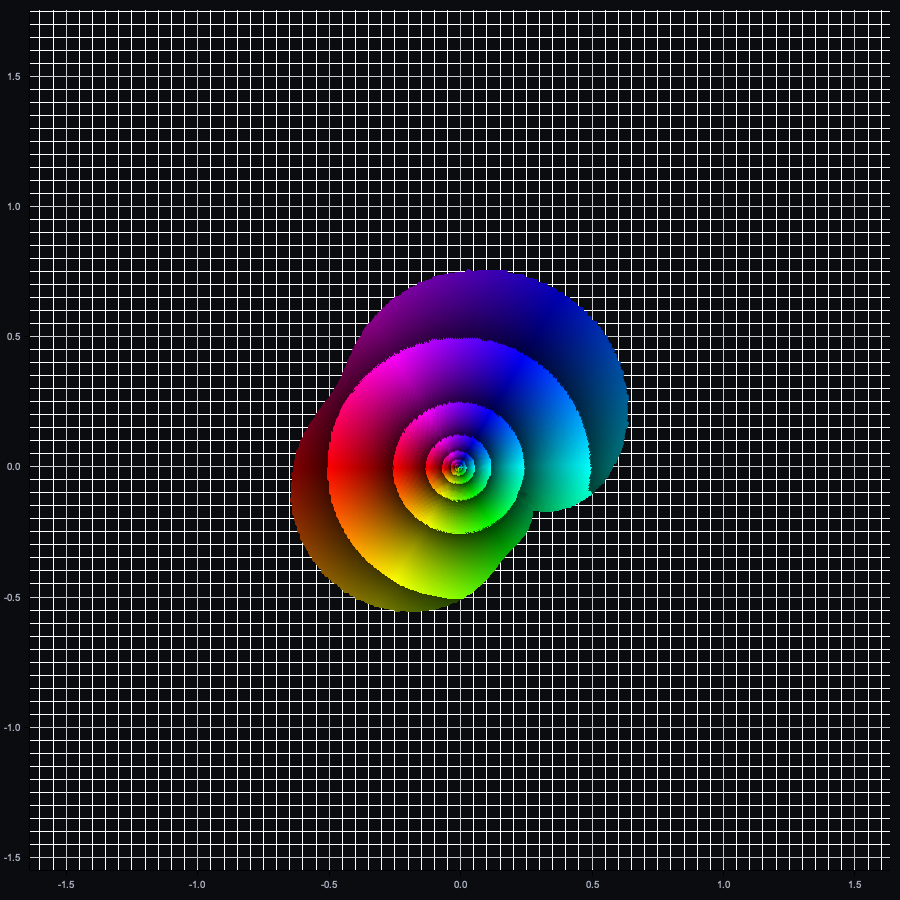
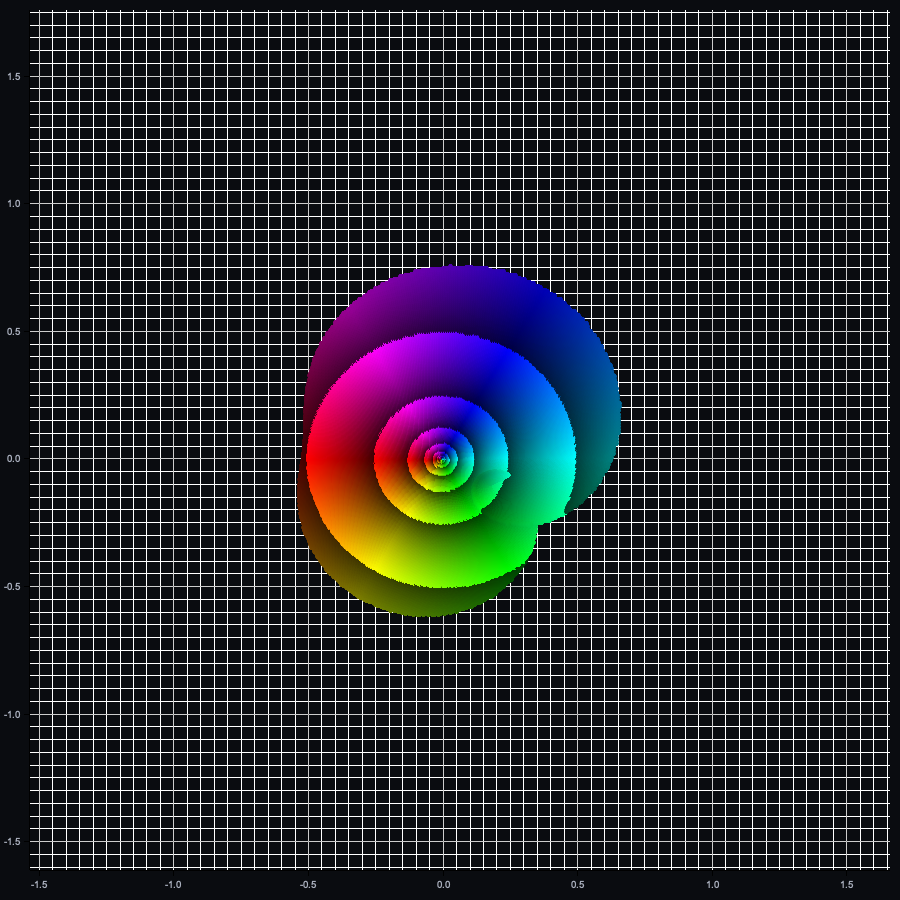
improved ui

Changed region(s): [[0.0, 0.0, 0.9956, 0.9956]]

diff --git a/src/ui.rs b/src/ui.rs
@@ -9,13 +9,15 @@ use axum::{
 };
 use serde::Deserialize;
 use tokio::{net::TcpListener, task};
+use std::time::Instant;
 
-use crate::covering_grids::unit_disk_n;
+use crate::{covering_grids::{covering_grid_bitmap, unit_disk_n}, dyadic::Dyadic};
 // NEW: bring the sweep into scope
 use crate::evaluation::approximate_all_words;
 use crate::holomorphic::{BoundingSequence, ComplexFunction, ExpansionCoefficients};
 use crate::plot::plot_set;
 use crate::psi::{m_vec, psi_infinity, t_vector};
+use crate::edt::{landau_l_via_edt_from_bitmap};
 
 const CONTACT_EMAIL: &str = "landau@constant.com";
 
@@ -77,6 +79,21 @@ fn nav_html() -> String {
     )
 }
 
+fn escape_html(s: &str) -> String {
+  let mut out = String::with_capacity(s.len());
+  for ch in s.chars() {
+      match ch {
+          '&' => out.push_str("&amp;"),
+          '<' => out.push_str("&lt;"),
+          '>' => out.push_str("&gt;"),
+          '"' => out.push_str("&quot;"),
+          '\'' => out.push_str("&#39;"),
+          _ => out.push(ch),
+      }
+  }
+  out
+}
+
 // Footer with contact email
 fn footer_html() -> String {
     format!(
@@ -124,16 +141,26 @@ struct AppState {
 }
 type SharedState = Arc<AppState>;
 
+
 #[derive(Deserialize)]
 struct PlotForm {
     word: String,
-    acc_n: Option<i32>, // step exponent: step = 2^-acc_n
+    acc_n: Option<i32>, 
 }
 
+const DEFAULT_PLOT_ACC_N: i32 = 7;   // for /plot (step = 2^-n)
+const DEFAULT_CALC_ALL_LEN: usize = 3;
+const DEFAULT_CALC_ALL_STEP: i32 = 1;
+
+fn default_calc_all_len() -> usize { DEFAULT_CALC_ALL_LEN }
+fn default_calc_all_step() -> i32 { DEFAULT_CALC_ALL_STEP }
 #[derive(Deserialize)]
 struct CalcAllForm {
-    length: usize,
-    step: i32, // UI step 1 -> disk_decrease -1
+  #[serde(default = "default_calc_all_len")]
+  length: usize,
+
+  #[serde(default = "default_calc_all_step")]
+  step: i32,
 }
 
 /// Both "1,2,3,4" or "1234" work fine
@@ -156,7 +183,7 @@ async fn home() -> Html<String> {
     let inner = r#"
     <div class="card">
       <h1>Word → image of D<sub>1</sub></h1>
-      <p>Enter a word over <code>{1,2,3,4}</code> to generate the derivative via <code>psi_infinity</code>, integrate to a normalised <code>f</code>, evaluate on a discrete unit disk, and render.</p>
+      <p>Enter a word over <code>{1,2,3,4}</code> to generate the derivative via <code>psi_infinity</code>, integrate to a normalised <code>f</code>, evaluate on a discrete unit disk, create a covering grid of the image and evaluate λ<sub>f</sub> using EDT, then render.</p>
 
       <form method="post" action="/plot">
         <div class="row">
@@ -166,7 +193,7 @@ async fn home() -> Html<String> {
           </div>
           <div>
             <label>Accuracy n (step = 2<sup>−n</sup>)</label>
-            <input type="number" name="acc_n" min="6" max="18" value="10" />
+            <input type="number" name="acc_n" min="6" max="18" value="7" />
           </div>
         </div>
         <p><button type="submit">Plot</button></p>
@@ -175,7 +202,7 @@ async fn home() -> Html<String> {
       <hr/>
 
       <h2>Exhaustive sweep</h2>
-      <p>Try all words of a given length and choose the best image (per your EDT-based objective).</p>
+      <p>Final algorithm: approximate Landau's constant on all words up to (including) selected length. Recieved approximation is up to λ*2^{-step} away from true value, theoretically proven. :)</p>
       <form method="post" action="/calc-all">
         <div class="row">
           <div>
@@ -184,7 +211,7 @@ async fn home() -> Html<String> {
           </div>
           <div>
             <label>Step (UI) → <code>disk_decrease</code></label>
-            <input type="number" name="step" min="1" max="10" value="3" />
+            <input type="number" name="step" min="1" max="10" value="1" />
           </div>
         </div>
         <p><button type="submit">Run sweep</button></p>
@@ -198,8 +225,9 @@ async fn home() -> Html<String> {
 async fn plot(State(state): State<SharedState>, Form(form): Form<PlotForm>) -> impl IntoResponse {
     // Parse inputs
     let word_vec = parse_word(&form.word);
-    let acc_n_ui = form.acc_n.unwrap_or(5).clamp(3, 18);
-
+    let acc_n_ui = form.acc_n.unwrap_or(DEFAULT_PLOT_ACC_N).clamp(3, 18);
+    let epsilon = Dyadic::new(1, -acc_n_ui) ;
+    let delta = epsilon * Dyadic::new(1, -2);
     let word = form.word.trim().to_string();
     let acc_n_display = match form.acc_n {
         Some(n) => n.to_string(),
@@ -207,11 +235,11 @@ async fn plot(State(state): State<SharedState>, Form(form): Form<PlotForm>) -> i
     };
 
     // Build inputs for the blocking job
-    let m_seq = Arc::new(m_vec(5));
+    let m_seq = Arc::new(vec![Dyadic::new(1, -1), Dyadic::new(1, -1), Dyadic::new(1, -2), Dyadic::new(1, -2), ]);
     let t_seq = Arc::new(t_vector(1000));
     let word_job = word_vec.clone();
 
-    let res = task::spawn_blocking(move || -> Result<Vec<u8>, String> {
+    let res = task::spawn_blocking(move || -> Result<(Vec<u8>, f64, usize, u128), String> {
         // Build f' and f
         let coeffs = psi_infinity(&m_seq, &t_seq, &word_job);
         let fprime = ComplexFunction::new(
@@ -228,6 +256,19 @@ async fn plot(State(state): State<SharedState>, Form(form): Form<PlotForm>) -> i
         for &z in &domain {
             img.push(f.eval(&z));
         }
+        let t0 = Instant::now();
+
+        // build covering grid
+        let bitmap = covering_grid_bitmap(&img, epsilon, delta);
+        // If your function returns (bitmap, meta), split it accordingly.
+
+        let grid_points = bitmap.width * bitmap.height; // or bitmap.width * bitmap.height if you have dims
+
+        // >>> run EDT to estimate lambda
+        let lambda_f = landau_l_via_edt_from_bitmap(&bitmap, delta);
+
+        #[allow(clippy::unnecessary_cast)]
+        let elapsed_ms = t0.elapsed().as_millis() as u128;
 
         // Plot to temp path
         let tmpdir = tempfile::tempdir().map_err(|e| e.to_string())?;
@@ -241,31 +282,42 @@ async fn plot(State(state): State<SharedState>, Form(form): Form<PlotForm>) -> i
         if png_bytes.len() < 8 || &png_bytes[..8] != png_magic {
             return Err(format!("not a PNG ({} bytes)", png_bytes.len()));
         }
-        Ok(png_bytes)
+        Ok((png_bytes, lambda_f, grid_points, elapsed_ms))
     })
     .await;
 
     match res {
-        Ok(Ok(png_bytes)) => {
-            *state.png.lock().unwrap() = png_bytes;
-            let inner = format!(
-                r#"
-              <div class="card">
-                <p><a href="/">← back</a></p>
-                <h1>Result</h1>
-                <p><b>Word:</b> [{word}]</p>
-                <p><b>Accuracy n:</b> {acc_n_display}</p>
-                <figure>
-                  <img alt="plot" src="/img" />
-                  <figcaption>Image of D under f built from your word.</figcaption>
-                </figure>
-              </div>
-            "#
-            );
-            Html(page_html("Landau Explorer — Plot", &inner)).into_response()
+      Ok(Ok((png_bytes, lambda_hat, grid_points, elapsed_ms))) => {
+        {
+            let mut guard = state.png.lock().unwrap();
+            *guard = png_bytes;
         }
-        Ok(Err(e)) => (StatusCode::INTERNAL_SERVER_ERROR, e).into_response(),
-        Err(e) => (StatusCode::INTERNAL_SERVER_ERROR, e.to_string()).into_response(),
+
+        // Render
+        let inner = format!(
+                  r#"
+        <div class="card">
+        <span class="badge">Plot</span>
+        <h1>Word <code>{word_display}</code>, step = 2<sup>-{acc_n_display}</sup></h1>
+
+        <p style="margin: .25rem 0 1rem; font-size: .95rem;">
+          <strong>λ<sub>f</sub> (EDT):</strong> {lambda:.6}
+          <span style="opacity:.7"> · grid points: {grid_pts} · {elapsed_ms} ms</span>
+        </p>
+
+        <img src="/img" alt="plot" style="width:100%; border-radius:.5rem; border:1px solid rgba(255,255,255,.08)" />
+        </div>
+        "#,
+        word_display = escape_html(&word),
+            acc_n_display = acc_n_display,
+            lambda      = lambda_hat,
+            grid_pts    = grid_points,
+            elapsed_ms  = elapsed_ms,
+        );
+        Html(page_html("Landau Explorer — Plot", &inner)).into_response()
+    }
+    Ok(Err(e)) => (StatusCode::INTERNAL_SERVER_ERROR, e).into_response(),
+    Err(e) => (StatusCode::INTERNAL_SERVER_ERROR, e.to_string()).into_response(),
     }
 }
 
@@ -294,10 +346,9 @@ async fn intro() -> Html<String> {
       <ul>
         <li><strong>Build</strong> <code>f'</code> from a chosen word via <code>psi_infinity</code>, then compute the antiderivative <code>f</code>.</li>
         <li><strong>Sample</strong> a discrete domain (unit disk at dyadic mesh 2<sup>−n</sup>) and evaluate <code>f</code>.</li>
-        <li><strong>Covering grid</strong>: convert the image set into a bitmap / grid approximation.</li>
-        <li><strong>EDT</strong>: run an Euclidean Distance Transform to estimate the maximal inscribed disk radius
-            <code>l(f(D))</code> (your <code>landau_l_via_edt_from_bitmap</code> pipeline).</li>
-        <li><strong>Sweep</strong>: enumerate words to search for small <code>λ<sub>f</sub></code> and tighten lower bounds.</li>
+        <li><strong>Covering grid</strong>: convert the image set into a bitmap / grid for approximation.</li>
+        <li><strong>EDT</strong>: run an Euclidean Distance Transform to estimate the maximal inscribed disk radius inside each image</li>
+        <li><strong>Approximate</strong>: use many different words to get an accurate approximation of the constant</li>
       </ul>
 
       <h2>Reading colored plots of holomorphic maps</h2>
@@ -324,8 +375,8 @@ async fn calc_all(
     State(state): State<SharedState>,
     Form(form): Form<CalcAllForm>,
 ) -> impl IntoResponse {
-    let length = form.length;
-    let step = form.step.max(1); // guard
+    let length = form.length;        // now defaults to 3 if omitted
+    let step   = form.step; // guard
     let disk_decrease = -step;
 
     // Keep m_seq
@@ -336,7 +387,7 @@ async fn calc_all(
 
     // After the sweep re-plots the best word, try to read the PNG it produced
     // If calculate_for_word_updated writes to a known "plot.png" this will pick it up
-    let png_bytes = std::fs::read("test_grid.png");
+    let png_bytes = std::fs::read("test_image.png");
     match png_bytes {
         Ok(bytes) => {
             *state.png.lock().unwrap() = bytes;

diff --git a/src/holomorphic.rs b/src/holomorphic.rs
@@ -3,7 +3,7 @@ use std::ops::{Add, Sub};
 use crate::dyadic::{ComplexDyadic, Dyadic, add_complex_vec, add_vec, sub_complex_vec};
 
 // Function to map vector to function which returns n-th element.
-pub fn vec_to_sequence(vec: &Vec<Dyadic>) -> impl Fn(u32) -> Dyadic + '_ {
+pub fn vec_to_sequence(vec: &[Dyadic]) -> impl Fn(u32) -> Dyadic + '_ {
     move |n: u32| {
         vec.get(n as usize) // safe, no panic
             .cloned() // use `copied()` if Dyadic implements Copy
@@ -177,7 +177,7 @@ impl ComplexFunction {
         let mut derivative_coefficients: Vec<ComplexDyadic> = Vec::with_capacity(length - 1);
 
         // Calculate the derivative coefficients
-
+        #[allow(clippy::needless_range_loop)]
         for i in 1..length {
             derivative_coefficients.push(
                 coefficients[i] * ComplexDyadic::new(Dyadic::new(i as i128, 0), Dyadic::zero()),
@@ -194,6 +194,7 @@ impl ComplexFunction {
         let sequence = &self.expansion_coefficients.vector;
         let mut antiderivative_sequence = Vec::with_capacity(sequence.len() + 1);
         antiderivative_sequence.push(ComplexDyadic::zero());
+        #[allow(clippy::needless_range_loop)]
         for i in 0..sequence.len() {
             antiderivative_sequence.push(
                 sequence[i] / ComplexDyadic::new(Dyadic::new(i as i128 + 1, 0), Dyadic::zero()),

diff --git a/src/psi.rs b/src/psi.rs
@@ -107,7 +107,6 @@ fn dyadic_ceil_with_exp(x: f64, exp: i32) -> Dyadic {
     // scale = 2^{-exp}; if exp = -n, scale = 2^{n}
     let step = (2.0f64).powi(exp); 
     let y = x / step;
-    // Small safety bump to avoid rounding *below* due to FP error
 
     let y_bumped = y + (y.abs() * f64::EPSILON + 1e-18);
     let k = y_bumped.ceil() as i128;
